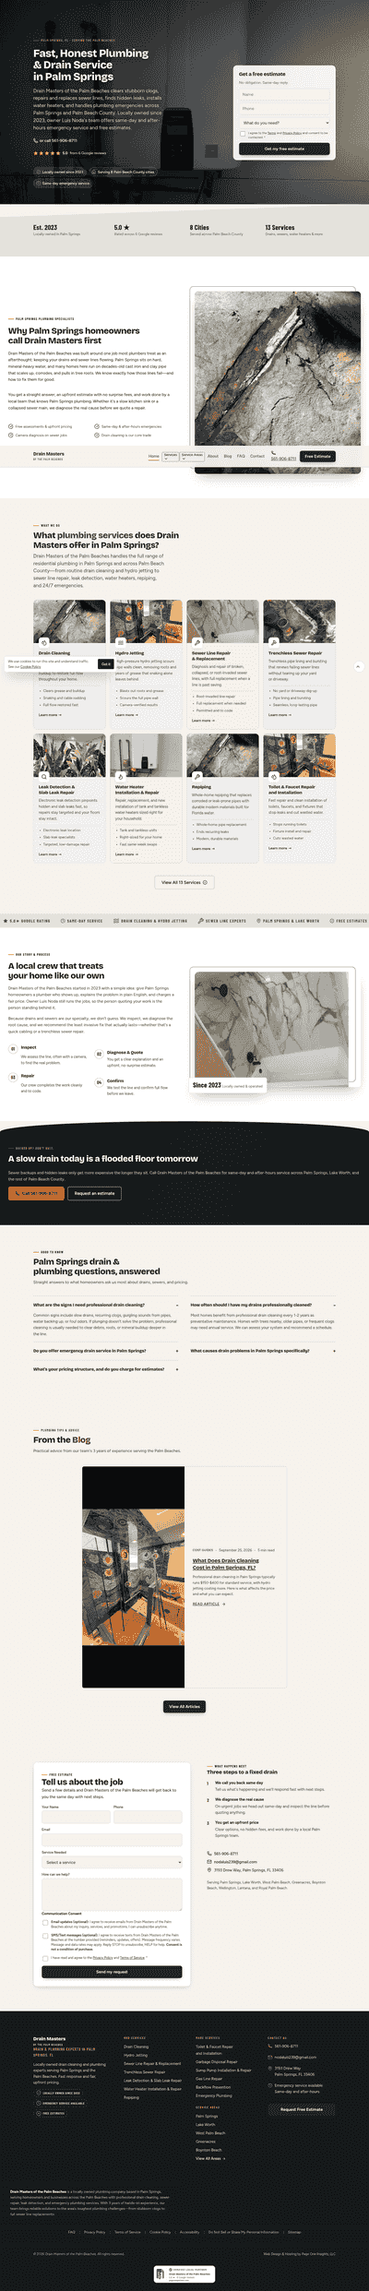
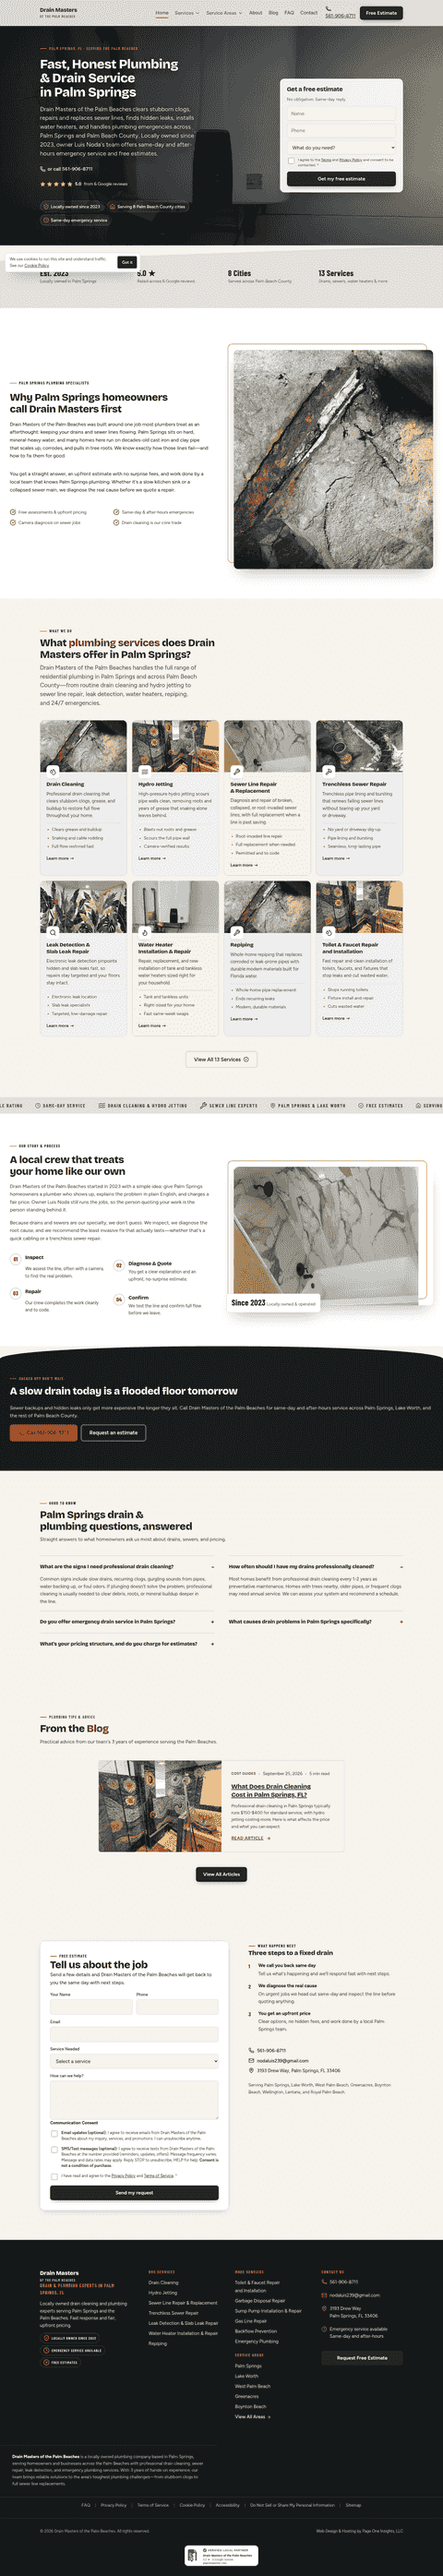
Featured blog card: image fills the row; dropdown triggers pick up scaffold toggle styling

diff --git a/index.php b/index.php
@@ -105,8 +105,8 @@ include $_SERVER['DOCUMENT_ROOT'] . '/includes/header.php';
   .blog-preview { max-width: 800px; margin: var(--space-2xl) auto 0; }
   .blog-featured-card { background: var(--color-bg); border: 1px solid var(--color-border); border-radius: var(--radius); overflow: hidden; transition: var(--transition); display: grid; grid-template-columns: 1fr 1fr; gap: 0; }
   .blog-featured-card:hover { box-shadow: var(--shadow-lg); transform: translateY(-2px); }
-  .blog-featured-image-link { display: block; overflow: hidden; }
-  .blog-featured-image-link picture { display: block; height: 100%; }
+  .blog-featured-image-link { position: relative; display: block; overflow: hidden; min-height: 280px; }
+  .blog-featured-image-link picture { position: absolute; inset: 0; display: block; }
   .blog-featured-image { width: 100%; height: 100%; object-fit: cover; transition: transform 0.4s ease; }
   .blog-featured-card:hover .blog-featured-image { transform: scale(1.05); }
   .blog-featured-content { padding: var(--space-xl); display: flex; flex-direction: column; justify-content: center; }
@@ -119,7 +119,7 @@ include $_SERVER['DOCUMENT_ROOT'] . '/includes/header.php';
   .blog-featured-excerpt { color: var(--color-ink-2); line-height: 1.6; margin-bottom: var(--space-md); font-size: var(--font-size-sm); }
   .blog-featured-link { display: inline-flex; align-items: center; gap: var(--space-xs); color: var(--color-accent-dark); font-weight: 600; font-size: var(--font-size-sm); text-transform: uppercase; letter-spacing: 0.05em; transition: var(--transition); }
   .blog-featured-link:hover { gap: var(--space-sm); }
-  @media (max-width: 768px) { .blog-featured-card { grid-template-columns: 1fr; } .blog-featured-image { height: 200px; } }
+  @media (max-width: 768px) { .blog-featured-card { grid-template-columns: 1fr; } .blog-featured-image-link { min-height: 220px; } }
 </style>
 
 <!-- ============ HERO (bold-industrial: full-bleed photo) ============ -->

diff --git a/includes/header.php b/includes/header.php
@@ -17,7 +17,7 @@
                 <li><a href="/" <?php if (isActivePage('home')) echo 'aria-current="page"'; ?>>Home</a></li>
 
                 <li class="has-dropdown">
-                    <button class="dropdown-trigger" aria-expanded="false" aria-haspopup="true">
+                    <button class="dropdown-trigger dropdown-toggle" aria-expanded="false" aria-haspopup="true">
                         Services
                         <svg aria-hidden="true" width="16" height="16" xmlns="http://www.w3.org/2000/svg" viewBox="0 0 24 24" fill="none" stroke="currentColor" stroke-width="2" stroke-linecap="round" stroke-linejoin="round"><path d="m6 9 6 6 6-6" /></svg>
                     </button>
@@ -33,7 +33,7 @@
                 </li>
 
                 <li class="has-dropdown">
-                    <button class="dropdown-trigger" aria-expanded="false" aria-haspopup="true">
+                    <button class="dropdown-trigger dropdown-toggle" aria-expanded="false" aria-haspopup="true">
                         Service Areas
                         <svg aria-hidden="true" width="16" height="16" xmlns="http://www.w3.org/2000/svg" viewBox="0 0 24 24" fill="none" stroke="currentColor" stroke-width="2" stroke-linecap="round" stroke-linejoin="round"><path d="m6 9 6 6 6-6" /></svg>
                     </button>
